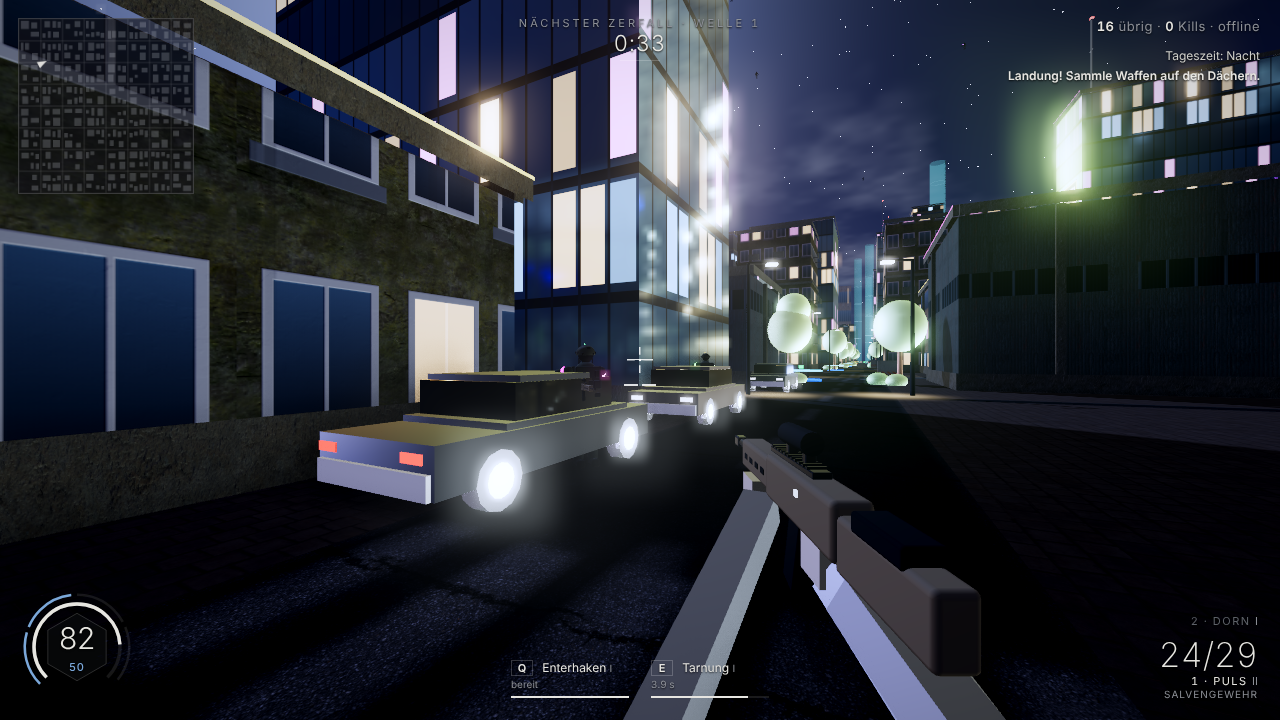
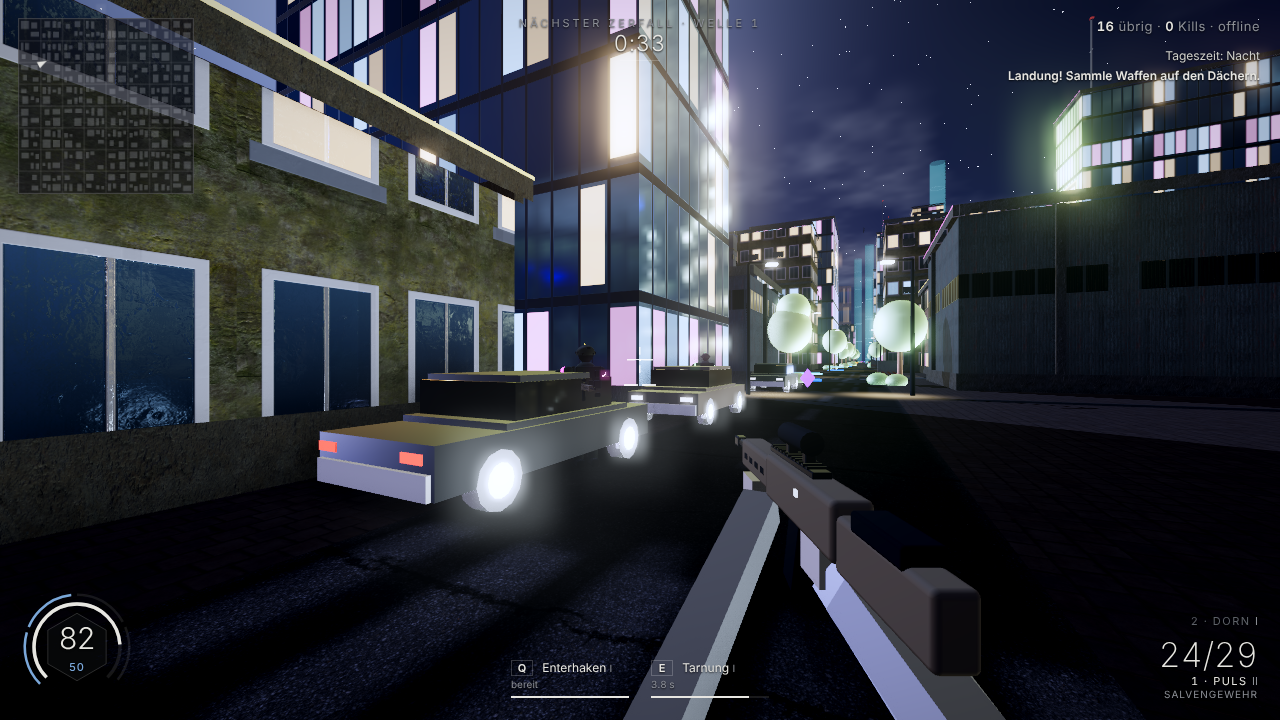
Zerfallzone: 2k/4k textures on demand, Ultra quality, glossy windows
- scripts/fetch-assets.mjs (npm run assets -- 2k 4k) downloads Poly Haven
  textures incl. roughness maps with checksum verification; 2k/4k stay out
  of git, the GitHub build fetches them before packaging the PC app
- Server reports available texture resolutions; the client picks the best
  one up to the chosen quality: Low (1k), High (2k), Ultra (4k with 4096
  shadow map, pixel ratio 2, max anisotropy)
- Facades get roughness/metalness maps so window panes reflect the HDRI
  while walls stay matte; photo roughness maps on roof, trim, pavers and
  asphalt from 2k up

Claude-Session: https://claude.ai/code/session_01EssEwotkkT3Rjo38pKxZSZ

Changed region(s): [[0.0, 0.0, 0.75, 0.6111], [0.7812, 0.0611, 1.0, 0.3056], [0.0, 0.0, 0.0938, 0.0306]]

diff --git a/zerfallzone/public/visuals.js b/zerfallzone/public/visuals.js
@@ -182,6 +182,7 @@ export function createEnvironment(scene, renderer) {
     sun.position.set(tx + d.x * 350, d.y * 350, tz + d.z * 350);
   };
   env.setShadows = (on) => { renderer.shadowMap.enabled = on; sun.castShadow = on; };
+  env.setShadowSize = (n) => { if (sun.shadow.mapSize.x === n) return; sun.shadow.mapSize.set(n, n); if (sun.shadow.map) { sun.shadow.map.dispose(); sun.shadow.map = null; } };
   env.apply('tag');
   return env;
 }
@@ -192,7 +193,7 @@ function tex(c, repeat = true) {
   const t = new THREE.CanvasTexture(c);
   if (repeat) t.wrapS = t.wrapT = THREE.RepeatWrapping;
   t.colorSpace = THREE.SRGBColorSpace;
-  t.anisotropy = 8;
+  t.anisotropy = MAX_ANISO;
   return t;
 }
 function grain(g, w, h, amount, alpha = 0.06) {
@@ -207,12 +208,17 @@ const ENV_MATS = new Set();
 export function envMat(m, base) { m.userData.envBase = base; m.envMapIntensity = base * ENV_INT.value; ENV_MATS.add(m); return m; }
 // ---------------------------------------------------------------- Foto-Texturen (Poly Haven, CC0) – siehe public/ASSETS-LICENSES.md
 const PHOTO_IDS = ['asphalt_02', 'concrete_pavers_02', 'white_plaster_rough_02', 'concrete_panels', 'worn_corrugated_iron', 'gravel_concrete', 'rough_concrete'];
-export const PHOTO = { ready: false, img: {}, promise: null };
-/** Lädt die Foto-Texturen einmal. Fehlen sie, zeichnet das Spiel weiter seine eigenen Texturen. */
-export function loadPhotoTextures(base = 'textures/') {
+export const PHOTO = { ready: false, img: {}, promise: null, res: '1k' };
+let MAX_ANISO = 8;
+export function setMaxAnisotropy(n) { MAX_ANISO = Math.max(1, Math.min(16, n | 0)); }
+/** Lädt die Foto-Texturen einmal in der gewählten Auflösung (1k liegt im Spiel, 2k/4k per `npm run assets`).
+ *  Fehlen sie, zeichnet das Spiel weiter seine eigenen Texturen. */
+export function loadPhotoTextures(res = '1k', base = 'textures/') {
   if (PHOTO.promise) return PHOTO.promise;
-  const load = (src) => new Promise((res) => { const i = new Image(); i.onload = () => res(i); i.onerror = () => res(null); i.src = src; });
-  PHOTO.promise = Promise.all(PHOTO_IDS.flatMap((id) => ['diff', 'nor'].map(async (k) => { PHOTO.img[id + '/' + k] = await load(`${base}${id}/${k}.jpg`); })))
+  PHOTO.res = res;
+  const load = (src) => new Promise((ok) => { const i = new Image(); i.onload = () => ok(i); i.onerror = () => ok(null); i.src = src; });
+  const maps = res === '1k' ? ['diff', 'nor'] : ['diff', 'nor', 'rough'];
+  PHOTO.promise = Promise.all(PHOTO_IDS.flatMap((id) => maps.map(async (k) => { PHOTO.img[id + '/' + k] = await load(`${base}${id}/${res === '1k' ? '' : res + '/'}${k}.jpg`); })))
     .then(() => { PHOTO.ready = true; });
   return PHOTO.promise;
 }
@@ -224,7 +230,7 @@ function photoTex(id, k, repeat = 1) {
   t.needsUpdate = true;
   t.wrapS = t.wrapT = THREE.RepeatWrapping;
   t.colorSpace = k === 'diff' ? THREE.SRGBColorSpace : THREE.NoColorSpace;
-  t.anisotropy = 8;
+  t.anisotropy = MAX_ANISO;
   t.repeat.set(repeat, repeat);
   return t;
 }
@@ -277,10 +283,15 @@ const FLOOR = FH / 4;
 /** Fassade: Farb-Textur + Leuchtfenster für Abend und Nacht */
 const FACADE_PHOTO = { 1: 'concrete_panels', 2: 'white_plaster_rough_02', 3: 'worn_corrugated_iron' };
 function makeFacade(style) {
-  const [c, g] = canvas(FW * 2, FH * 2);
-  const [ce, ge] = canvas(FW * 2, FH * 2);
-  g.scale(2, 2); ge.scale(2, 2);
+  const FS = PHOTO.res === '1k' ? 2 : 4; // 2k/4k: Fassaden in vierfacher Auflösung
+  const [c, g] = canvas(FW * FS, FH * FS);
+  const [ce, ge] = canvas(FW * FS, FH * FS);
+  const [cr, gr] = canvas(FW * FS, FH * FS); // Rauheit (grün) und Metall (blau): Scheiben glänzen, Wände matt
+  g.scale(FS, FS); ge.scale(FS, FS); gr.scale(FS, FS);
   ge.fillStyle = '#000'; ge.fillRect(0, 0, FW, FH);
+  gr.fillStyle = style === 0 ? 'rgb(0,20,150)' : 'rgb(0,232,0)'; gr.fillRect(0, 0, FW, FH);
+  const glass = (x, y, w, h) => { gr.fillStyle = 'rgb(0,26,115)'; gr.fillRect(x, y, w, h); };
+  const solid = (x, y, w, h) => { gr.fillStyle = 'rgb(0,150,170)'; gr.fillRect(x, y, w, h); }; // Rahmen: Metall
   const wallId = FACADE_PHOTO[style];
   const wall = wallId ? photoPattern(g, wallId, 'diff', style === 3 ? 64 : 80) : null; // ein Foto = 2–2,5 m Wand
   const lit = (x, y, w, h, p) => {
@@ -301,9 +312,10 @@ function makeFacade(style) {
         lit(x + 3, y + 14, 26, FLOOR - 22, 0.32);
       }
       g.fillStyle = '#1d2c3d'; g.fillRect(0, y, FW, 10);       // Geschossdecke
+      solid(0, y, FW, 10);
     }
     g.fillStyle = '#22344a';
-    for (let x = 0; x < FW; x += 32) g.fillRect(x, 0, 3, FH); // Pfosten
+    for (let x = 0; x < FW; x += 32) { g.fillRect(x, 0, 3, FH); solid(x, 0, 3, FH); } // Pfosten
   } else if (style === 1) { // Bürobau: Betonbänder und Fensterbänder
     g.fillStyle = wall || '#d3cec4'; g.fillRect(0, 0, FW, FH);
     if (!wall) grain(g, FW, FH, 2500);
@@ -312,8 +324,9 @@ function makeFacade(style) {
       const wg = g.createLinearGradient(0, y + 34, 0, y + 98);
       wg.addColorStop(0, '#5d7a93'); wg.addColorStop(1, '#2b3a4b');
       g.fillStyle = wg; g.fillRect(0, y + 34, FW, 64);
+      glass(0, y + 34, FW, 64);
       g.fillStyle = '#9aa3ab';
-      for (let x = 0; x < FW; x += 32) { g.fillRect(x, y + 34, 3, 64); lit(x + 3, y + 36, 29, 60, 0.35); }
+      for (let x = 0; x < FW; x += 32) { g.fillRect(x, y + 34, 3, 64); solid(x, y + 34, 3, 64); lit(x + 3, y + 36, 29, 60, 0.35); }
       g.fillStyle = 'rgba(0,0,0,0.12)'; g.fillRect(0, y + 98, FW, 4);
     }
   } else if (style === 2) { // Wohnhaus: Putz, Einzelfenster, Balkone
@@ -327,6 +340,7 @@ function makeFacade(style) {
         const wg = g.createLinearGradient(0, y + 28, 0, y + 84);
         wg.addColorStop(0, '#6f8ea8'); wg.addColorStop(1, '#33475a');
         g.fillStyle = wg; g.fillRect(x, y + 28, 40, 56);
+        glass(x, y + 28, 40, 56);
         g.fillStyle = '#f7f4ee'; g.fillRect(x + 19, y + 28, 2, 56);
         lit(x, y + 28, 40, 56, 0.4);
         if ((i + f) % 2 === 0) { g.fillStyle = '#8b8f94'; g.fillRect(x - 8, y + 86, 56, 8); g.fillStyle = 'rgba(0,0,0,0.15)'; g.fillRect(x - 8, y + 94, 56, 6); }
@@ -338,8 +352,9 @@ function makeFacade(style) {
     for (let f = 0; f < 4; f += 2) {
       const y = f * FLOOR + 30;
       g.fillStyle = '#26323e'; g.fillRect(16, y, FW - 32, 40);
+      glass(16, y, FW - 32, 40);
       g.fillStyle = '#8e969f';
-      for (let x = 16; x < FW - 16; x += 28) g.fillRect(x, y, 3, 40);
+      for (let x = 16; x < FW - 16; x += 28) { g.fillRect(x, y, 3, 40); solid(x, y, 3, 40); }
       lit(16, y, FW - 32, 40, 0.5);
     }
     g.fillStyle = 'rgba(180,150,40,0.5)'; g.fillRect(0, FH - 14, FW, 6);
@@ -350,14 +365,16 @@ function makeFacade(style) {
     nrm = normalFromCanvas(c, style === 3 ? 3 : 2.2);
     const wallN = wallId && photo(wallId, 'nor');
     if (wallN) { // Foto-Relief der Wand + Kanten der Fenster aus der Farbtextur
-      const [cn, gn] = canvas(FW * 2, FH * 2);
-      gn.scale(2, 2);
+      const [cn, gn] = canvas(FW * FS, FH * FS);
+      gn.scale(FS, FS);
       gn.fillStyle = photoPattern(gn, wallId, 'nor', style === 3 ? 64 : 80); gn.fillRect(0, 0, FW, FH);
       gn.setTransform(1, 0, 0, 1, 0, 0); gn.globalAlpha = 0.5; gn.drawImage(nrm.image, 0, 0);
       nrm = new THREE.CanvasTexture(cn); nrm.wrapS = nrm.wrapT = THREE.RepeatWrapping; nrm.colorSpace = THREE.NoColorSpace;
     }
   }
-  return { map: tex(c), emi: tex(ce), nrm };
+  const rm = new THREE.CanvasTexture(cr);
+  rm.wrapS = rm.wrapT = THREE.RepeatWrapping; rm.colorSpace = THREE.NoColorSpace; rm.anisotropy = MAX_ANISO;
+  return { map: tex(c), emi: tex(ce), nrm, rm };
 }
 function makeRoof() {
   const [c, g] = canvas(256, 256);
@@ -499,9 +516,9 @@ function materials() {
   const fac = [0, 1, 2, 3].map(makeFacade);
   const std = (o) => new THREE.MeshStandardMaterial({ vertexColors: true, ...o });
   M = {
-    facade: fac.map((f, i) => std({ map: f.map, emissive: 0xffffff, emissiveMap: f.emi, emissiveIntensity: 0, roughness: i === 0 ? 0.08 : 0.88, metalness: i === 0 ? 0.6 : 0.02, ...(f.nrm ? { normalMap: f.nrm, normalScale: new THREE.Vector2(0.8, 0.8) } : {}) })),
-    roof: (() => { const d = photoTex('gravel_concrete', 'diff', 2); if (d) return std({ map: d, normalMap: photoTex('gravel_concrete', 'nor', 2), roughness: 0.95 }); const t = makeRoof(); return std({ map: t, normalMap: t.userData.nrm, normalScale: new THREE.Vector2(0.6, 0.6), roughness: 0.95 }); })(),
-    trim: std({ color: 0xd8d4cc, roughness: 0.75, map: photoTex('rough_concrete', 'diff', 3), normalMap: photoTex('rough_concrete', 'nor', 3) }),
+    facade: fac.map((f) => std({ map: f.map, emissive: 0xffffff, emissiveMap: f.emi, emissiveIntensity: 0, roughness: 1, metalness: 1, roughnessMap: f.rm, metalnessMap: f.rm, ...(f.nrm ? { normalMap: f.nrm, normalScale: new THREE.Vector2(0.8, 0.8) } : {}) })),
+    roof: (() => { const d = photoTex('gravel_concrete', 'diff', 2); if (d) return std({ map: d, normalMap: photoTex('gravel_concrete', 'nor', 2), roughnessMap: photoTex('gravel_concrete', 'rough', 2), roughness: 1 }); const t = makeRoof(); return std({ map: t, normalMap: t.userData.nrm, normalScale: new THREE.Vector2(0.6, 0.6), roughness: 0.95 }); })(),
+    trim: std({ color: 0xd8d4cc, roughness: 0.9, map: photoTex('rough_concrete', 'diff', 3), normalMap: photoTex('rough_concrete', 'nor', 3), roughnessMap: photoTex('rough_concrete', 'rough', 3) }),
     prop: std({ color: 0xffffff, roughness: 0.45, metalness: 0.5 }),
     neon: new THREE.MeshBasicMaterial({ vertexColors: true, toneMapped: false }),
     beacon: new THREE.MeshBasicMaterial({ vertexColors: true, toneMapped: false }),
@@ -511,11 +528,11 @@ function materials() {
     carLight: new THREE.MeshBasicMaterial({ vertexColors: true, toneMapped: false }),
     signs: new THREE.MeshStandardMaterial({ map: makeSigns(), emissive: 0xffffff, emissiveMap: null, emissiveIntensity: 1, roughness: 0.5 }),
     barrier: new THREE.MeshStandardMaterial({ map: makeBarrier(), normalMap: photoTex('rough_concrete', 'nor', 1), roughness: 0.85 }),
-    pavers: new THREE.MeshStandardMaterial({ map: photoTex('concrete_pavers_02', 'diff'), normalMap: photoTex('concrete_pavers_02', 'nor'), roughness: 0.9, color: 0xd8d6d0 }),
+    pavers: new THREE.MeshStandardMaterial({ map: photoTex('concrete_pavers_02', 'diff'), normalMap: photoTex('concrete_pavers_02', 'nor'), roughnessMap: photoTex('concrete_pavers_02', 'rough'), roughness: 1, color: 0xd8d6d0 }),
     ground: (() => {
       const t = makeGround();
       const det = photoTex('asphalt_02', 'diff');
-      const mat = new THREE.MeshStandardMaterial({ map: t, normalMap: photoTex('asphalt_02', 'nor', 80) || t.userData.nrm, normalScale: new THREE.Vector2(0.7, 0.7), roughness: 0.92 });
+      const mat = new THREE.MeshStandardMaterial({ map: t, normalMap: photoTex('asphalt_02', 'nor', 80) || t.userData.nrm, normalScale: new THREE.Vector2(0.7, 0.7), roughnessMap: photoTex('asphalt_02', 'rough', 80), roughness: 1 });
       if (det) { // Foto-Asphalt als Detail (alle 5 m) unter Markierungen und Rissen
         mat.onBeforeCompile = (sh) => {
           sh.uniforms.detailMap = { value: det };
@@ -534,7 +551,7 @@ function materials() {
     skyline: new THREE.MeshStandardMaterial({ color: 0x8792a6, roughness: 0.9, emissive: 0xffffff, emissiveIntensity: 0 }),
   };
   M.signs.emissiveMap = M.signs.map;
-  M.facade.forEach((f, i) => envMat(f, i === 0 ? 1.6 : 0.5));
+  M.facade.forEach((f, i) => envMat(f, i === 0 ? 1.6 : 1.1));
   envMat(M.carPaint, 1.2); if (M.pavers.map) envMat(M.pavers, 0.3); envMat(M.carGlass, 1.6); envMat(M.roof, 0.35); envMat(M.trim, 0.5); envMat(M.prop, 1.0); envMat(M.barrier, 0.4); envMat(M.ground, 0.3); envMat(M.lampPole, 0.9);
   // Zerfallene Sektoren: rot getönte Kopien
   M.decayed = {};

diff --git a/zerfallzone/public/client.js b/zerfallzone/public/client.js
@@ -14,10 +14,15 @@ import {
 import { LANGS, translate, guessLang } from './shared/i18n.js';
 import { MODELS, loadModelPack, makeModelCharacter, animateModelCharacter, makeModelWeapon } from './models.js';
 loadModelPack();
-loadPhotoTextures();
+// Grafikqualität: 0 = niedrig (1k, keine Schatten/Effekte), 1 = hoch (2k), 2 = ultra (4k, schärfere Schatten, volle Auflösung)
+let quality = (() => { try { const q = JSON.parse(localStorage.getItem('zz-quality')); if (q === 0 || q === 1 || q === 2) return q; const fx = JSON.parse(localStorage.getItem('zz-fx')); return fx === false ? 0 : 1; } catch { return 1; } })();
+const TEX_RES = ['1k', '2k', '4k'];
+/** Höchste vorhandene Texturauflösung bis zur gewünschten Stufe (2k/4k liegen nur nach `npm run assets` vor) */
+const photoReady = fetch('api/assets').then((r) => r.json()).catch(() => ({ textures: ['1k'] }))
+  .then((a) => { const want = TEX_RES.indexOf(TEX_RES[quality]); let res = '1k'; for (const r of a.textures || []) if (TEX_RES.indexOf(r) <= want && TEX_RES.indexOf(r) > TEX_RES.indexOf(res)) res = r; return loadPhotoTextures(res); });
 /** Rundenstart wartet auf Modelle, Foto-Texturen und Umgebungslichter (jeweils mit Zeitlimit) */
-const assetsReady = () => Promise.race([Promise.all([MODELS.promise, loadPhotoTextures(), env.hdrPromise]), new Promise((r) => setTimeout(r, 25000))]);
-import { createEnvironment, buildCity, makeCharacter, makeWeapon, animateCharacter, createEffects, TODS, GradeShader, setVisualTime, loadPhotoTextures, PHOTO } from './visuals.js';
+const assetsReady = () => Promise.race([Promise.all([MODELS.promise, photoReady, env.hdrPromise]), new Promise((r) => setTimeout(r, 30000))]);
+import { createEnvironment, buildCity, makeCharacter, makeWeapon, animateCharacter, createEffects, TODS, GradeShader, setVisualTime, loadPhotoTextures, PHOTO, setMaxAnisotropy } from './visuals.js';
 
 const $ = (id) => document.getElementById(id);
 const store = {
@@ -64,7 +69,7 @@ const esc = (s) => String(s).replace(/[&<>"']/g, (c) => ({ '&': '&amp;', '<': '&
 
 // ---------------------------------------------------------------- Renderer
 const renderer = new THREE.WebGLRenderer({ antialias: true, powerPreference: 'high-performance' });
-renderer.setPixelRatio(Math.min(devicePixelRatio, 1.5));
+renderer.setPixelRatio(Math.min(devicePixelRatio, (() => { try { return JSON.parse(localStorage.getItem('zz-quality')) === 2 ? 2 : 1.5; } catch { return 1.5; } })()));
 renderer.setSize(innerWidth, innerHeight);
 renderer.domElement.id = 'game';
 document.body.prepend(renderer.domElement);
@@ -90,8 +95,10 @@ composer.addPass(bloom);
 composer.addPass(new OutputPass());
 const grade = new ShaderPass(GradeShader);
 composer.addPass(grade);
-let fxOn = store.get('fx', true);
+let fxOn = quality > 0;
 env.setShadows(fxOn);
+env.setShadowSize(quality === 2 ? 4096 : 2048);
+setMaxAnisotropy(renderer.capabilities.getMaxAnisotropy());
 addEventListener('resize', () => {
   camera.aspect = innerWidth / innerHeight;
   camera.updateProjectionMatrix();
@@ -296,8 +303,14 @@ $('nameInput').addEventListener('change', () => store.set('name', $('nameInput')
 $('sensInput').value = sens;
 $('volInput').value = volume;
 $('volInput').addEventListener('input', () => { initAudio(); setVolume(+$('volInput').value); tone(660, 660, 0.05, 0.1); });
-const renderFxBtn = () => { $('fxBtn').textContent = fxOn ? t('menu.on') : t('menu.off'); $('fxBtn').classList.toggle('on', fxOn); };
-$('fxBtn').addEventListener('click', () => { fxOn = !fxOn; store.set('fx', fxOn); env.setShadows(fxOn); renderFxBtn(); });
+const renderFxBtn = () => { $('fxBtn').textContent = t('menu.q' + quality); $('fxBtn').classList.toggle('on', quality > 0); };
+$('fxBtn').addEventListener('click', () => {
+  quality = (quality + 1) % 3;
+  store.set('quality', quality);
+  // Texturauflösung und Bildschärfe brauchen einen Neustart der Grafik
+  if (!game) { location.reload(); return; }
+  fxOn = quality > 0; env.setShadows(fxOn); env.setShadowSize(quality === 2 ? 4096 : 2048); renderFxBtn();
+});
 renderFxBtn();
 $('sensInput').addEventListener('input', () => { sens = +$('sensInput').value; store.set('sens', sens); });
 const defaultServer = location.protocol.startsWith('http') ? location.host : 'localhost:7777';

diff --git a/zerfallzone/shared/i18n.js b/zerfallzone/shared/i18n.js
@@ -4,7 +4,7 @@
 export const LANGS = { de: 'Deutsch', en: 'English', es: 'Español', fr: 'Français' };
 
 const de = {
-  'tod.tag': 'Tageszeit: Mittag', 'tod.abend': 'Tageszeit: Abend', 'tod.nacht': 'Tageszeit: Nacht', 'hud.zip': 'Seilbahn nutzen', 'menu.vol': 'Lautstärke', 'menu.fx': 'Grafikqualität (Schatten, Leuchten)', 'menu.on': 'hoch', 'menu.off': 'niedrig',
+  'tod.tag': 'Tageszeit: Mittag', 'tod.abend': 'Tageszeit: Abend', 'tod.nacht': 'Tageszeit: Nacht', 'hud.zip': 'Seilbahn nutzen', 'menu.vol': 'Lautstärke', 'menu.fx': 'Grafikqualität', 'menu.q0': 'Niedrig', 'menu.q1': 'Hoch (2k)', 'menu.q2': 'Ultra (4k)', 'menu.on': 'hoch', 'menu.off': 'niedrig',
   'pick.title': 'Wähle deine Sprache', 'pick.hint': 'Du kannst sie später jederzeit im Menü ändern.',
   'menu.sub': 'Vertikaler Arena-Battle-Royale · Solo, Duos, Trios · offline gegen Bots oder online mit Freunden',
   'menu.name': 'Dein Name', 'menu.namePh': 'Spieler', 'menu.sens': 'Empfindlichkeit (Maus und Stick)', 'menu.lang': 'Sprache',
@@ -59,7 +59,7 @@ const de = {
 };
 
 const en = {
-  'tod.tag': 'Time of day: noon', 'tod.abend': 'Time of day: evening', 'tod.nacht': 'Time of day: night', 'hud.zip': 'Ride zipline', 'menu.vol': 'Volume', 'menu.fx': 'Graphics quality (shadows, glow)', 'menu.on': 'high', 'menu.off': 'low',
+  'tod.tag': 'Time of day: noon', 'tod.abend': 'Time of day: evening', 'tod.nacht': 'Time of day: night', 'hud.zip': 'Ride zipline', 'menu.vol': 'Volume', 'menu.fx': 'Graphics quality', 'menu.q0': 'Low', 'menu.q1': 'High (2K)', 'menu.q2': 'Ultra (4K)', 'menu.on': 'high', 'menu.off': 'low',
   'pick.title': 'Choose your language', 'pick.hint': 'You can change it any time later in the menu.',
   'menu.sub': 'Vertical arena battle royale · Solo, Duos, Trios · offline against bots or online with friends',
   'menu.name': 'Your name', 'menu.namePh': 'Player', 'menu.sens': 'Sensitivity (mouse and stick)', 'menu.lang': 'Language',
@@ -114,7 +114,7 @@ const en = {
 };
 
 const es = {
-  'tod.tag': 'Hora del día: mediodía', 'tod.abend': 'Hora del día: atardecer', 'tod.nacht': 'Hora del día: noche', 'hud.zip': 'Usar tirolina', 'menu.vol': 'Volumen', 'menu.fx': 'Calidad gráfica (sombras, brillo)', 'menu.on': 'alta', 'menu.off': 'baja',
+  'tod.tag': 'Hora del día: mediodía', 'tod.abend': 'Hora del día: atardecer', 'tod.nacht': 'Hora del día: noche', 'hud.zip': 'Usar tirolina', 'menu.vol': 'Volumen', 'menu.fx': 'Calidad gráfica', 'menu.q0': 'Baja', 'menu.q1': 'Alta (2K)', 'menu.q2': 'Ultra (4K)', 'menu.on': 'alta', 'menu.off': 'baja',
   'pick.title': 'Elige tu idioma', 'pick.hint': 'Puedes cambiarlo más tarde en el menú en cualquier momento.',
   'menu.sub': 'Battle royale vertical de arena · Solo, Dúos, Tríos · sin conexión contra bots o en línea con amigos',
   'menu.name': 'Tu nombre', 'menu.namePh': 'Jugador', 'menu.sens': 'Sensibilidad (ratón y stick)', 'menu.lang': 'Idioma',
@@ -169,7 +169,7 @@ const es = {
 };
 
 const fr = {
-  'tod.tag': 'Moment de la journée : midi', 'tod.abend': 'Moment de la journée : soir', 'tod.nacht': 'Moment de la journée : nuit', 'hud.zip': 'Prendre la tyrolienne', 'menu.vol': 'Volume', 'menu.fx': 'Qualité graphique (ombres, lueur)', 'menu.on': 'haute', 'menu.off': 'basse',
+  'tod.tag': 'Moment de la journée : midi', 'tod.abend': 'Moment de la journée : soir', 'tod.nacht': 'Moment de la journée : nuit', 'hud.zip': 'Prendre la tyrolienne', 'menu.vol': 'Volume', 'menu.fx': 'Qualité graphique', 'menu.q0': 'Basse', 'menu.q1': 'Haute (2K)', 'menu.q2': 'Ultra (4K)', 'menu.on': 'haute', 'menu.off': 'basse',
   'pick.title': 'Choisis ta langue', 'pick.hint': 'Tu pourras la changer plus tard dans le menu à tout moment.',
   'menu.sub': 'Battle royale vertical en arène · Solo, Duos, Trios · hors ligne contre des bots ou en ligne avec des amis',
   'menu.name': 'Ton nom', 'menu.namePh': 'Joueur', 'menu.sens': 'Sensibilité (souris et stick)', 'menu.lang': 'Langue',

diff --git a/zerfallzone/server/server.js b/zerfallzone/server/server.js
@@ -16,8 +16,19 @@ const THREE_ADDONS = path.join(path.dirname(require.resolve('three')), '..', 'ex
 const TICK = 1 / 30;
 const MIME = { '.html': 'text/html; charset=utf-8', '.js': 'text/javascript; charset=utf-8', '.css': 'text/css; charset=utf-8', '.png': 'image/png', '.ico': 'image/x-icon', '.json': 'application/json', '.glb': 'model/gltf-binary', '.gltf': 'model/gltf+json', '.bin': 'application/octet-stream', '.ktx2': 'image/ktx2', '.webp': 'image/webp', '.jpg': 'image/jpeg', '.hdr': 'application/octet-stream' };
 
+const TEX_IDS = ['asphalt_02', 'concrete_pavers_02', 'white_plaster_rough_02', 'concrete_panels', 'worn_corrugated_iron', 'gravel_concrete', 'rough_concrete'];
+/** Welche Texturauflösungen liegen vollständig vor? (1k im Spiel, 2k/4k nach `npm run assets`) */
+function availableTextures() {
+  const out = [];
+  for (const r of ['1k', '2k', '4k']) {
+    const ok = TEX_IDS.every((id) => ['diff', 'nor'].every((k) => fs.existsSync(path.join(ROOT, 'public', 'textures', id, r === '1k' ? '' : r, k + '.jpg'))));
+    if (ok) out.push(r);
+  }
+  return out;
+}
 function serveStatic(req, res) {
   const url = new URL(req.url, 'http://x');
+  if (url.pathname === '/api/assets') { res.writeHead(200, { 'Content-Type': 'application/json', 'Cache-Control': 'no-cache' }); res.end(JSON.stringify({ textures: availableTextures() })); return; }
   let file;
   if (url.pathname === '/vendor/three.module.js') file = THREE_FILE;
   else if (url.pathname.startsWith('/vendor/addons/')) file = path.join(THREE_ADDONS, path.normalize(url.pathname.slice(15)).replace(/^(\.\.[/\\])+/, ''));

diff --git a/zerfallzone/README.md b/zerfallzone/README.md
@@ -17,6 +17,14 @@ bis zu 40 Bots** oder **online mit Freunden**. PC-App und Browser spielen zusamm
 | **Aus dem Quellcode als App** | Node.js 20+ | `npm install && npm run app` |
 | **Eigener Online-Server** (VPS) | Docker | `docker build -t zerfallzone . && docker run -p 7777:7777 zerfallzone` |
 
+### Hochauflösende Texturen
+
+```bash
+npm run assets -- 4k     # oder 2k, oder 2k 4k
+```
+
+Danach im Hauptmenü **Grafikqualität: Ultra (4k)** wählen.
+
 ### PC-App herunterladen
 
 GitHub baut die App automatisch, sobald sich etwas in `zerfallzone/` ändert
@@ -115,6 +123,8 @@ unverändert aus dem Spielkern, das Aussehen ist nur die Hülle darum.
 - **Zerfall als Markenzeichen:** Zerfallene Sektoren tragen ein wanderndes digitales Glitch-Muster in Rot und Cyan.
 - **Oberfläche:** schlicht und erwachsen: gedeckte Farben, dünne Schrift, kaum Kästen, nur Bernstein als Akzent für Warnungen. Vitalkern unten links (feiner Lebensring, vier Rüstungszellen, Zahl in der Mitte), Munition groß und dünn unten rechts, Fähigkeiten mit feiner Ladelinie, Fadenkreuz aus Punkt und vier feinen Linien.
 - **Kampf-Rückmeldung:** leuchtende Geschossspuren, schwebende Schadenszahlen (Kopftreffer gelb), Treffer-Kreuz, Splitter und Klang beim Rüstungsbruch (bei Gegnern räumlich), Banner bei eigenen Kills.
+- **Grafikqualität (Hauptmenü):** *Niedrig* (1k-Texturen, ohne Schatten und Effekte), *Hoch* (2k-Texturen), *Ultra* (4k-Texturen, 4096er-Schattenkarte, volle Bildschirmauflösung, maximale anisotrope Filterung). 1k liegt im Repository; 2k und 4k lädt `npm run assets -- 2k 4k` von Poly Haven (rund 310 MB, jede Datei per Prüfsumme geprüft). Der GitHub-Build der PC-App lädt sie automatisch mit. Fehlt eine Auflösung, nimmt das Spiel die nächstkleinere.
+- **Glänzende Scheiben:** Fassaden haben eine eigene Rauheits- und Metallkarte. Fensterscheiben spiegeln Himmel und Stadt, Wände bleiben matt.
 - **Leistung:** Jeder Sektor wird je Material in einem Stück gezeichnet, alle Gebäude eines Sektors versinken gemeinsam (gleiche Formel wie die Kollision). Unter **Grafikqualität: niedrig** sind Schatten und Leuchteffekt aus.
 
 ## Sprachen
